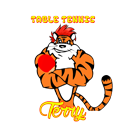
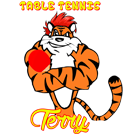
terry 135px update

diff --git a/index.html b/index.html
@@ -19,7 +19,7 @@
   <body>
     <header>
       <div class="inner">
-        <img src="images/terry_white_160.png" width="160px" height="160px" />
+        <img src="images/terry_white_135.png" width="135px" height="135px" />
         <h1>TTTTT</h1>
         <h2>Table Tennis Terry&#39;s Tournament Tracker</h2>
         <a href="https://github.com/drewrothstein/table-tennis-terrys-tournament-tracker" class="button"><small>View project on</small>GitHub</a>

diff --git a/stylesheets/stylesheet.css b/stylesheets/stylesheet.css
@@ -85,7 +85,7 @@ header h2 {
   color: #9ddcff;
   font-weight: normal;
   line-height: 1.3;
-  width: 670px;
+  width: 645px;
   letter-spacing: 0;
 }
 
